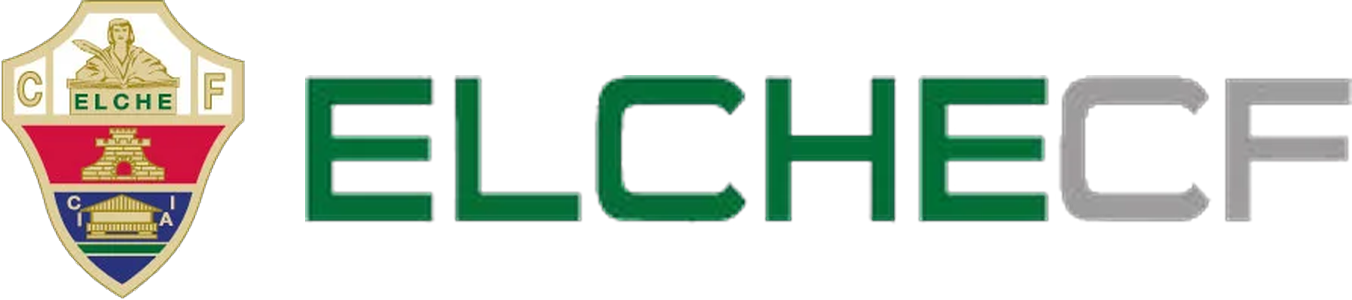
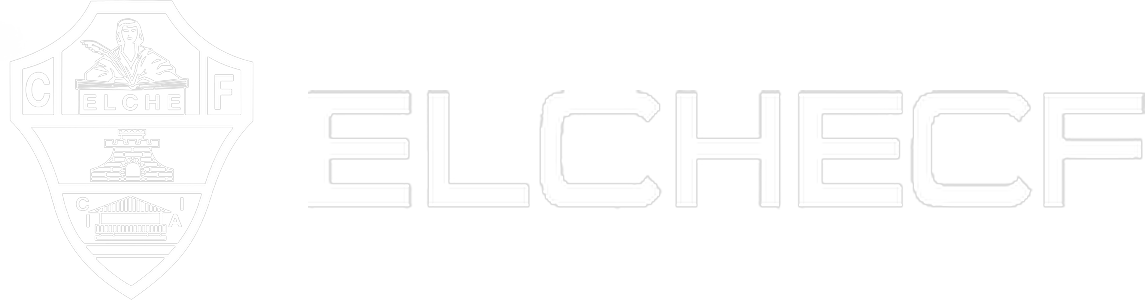
Escudo del Elche CF en línea con detalle y aviso de cookies rediseñado
- El escudo se toma del dibujo lineal en blanco que subió el doctor
  (fondo eliminado por luminancia) y se compone junto a las letras
  ELCHECF, algo más pequeñas, a 36 px de alto en la franja del hero.
- Aviso de cookies como tarjeta compacta con título, texto en registro
  formal en los doce idiomas, enlace a la política y dos botones;
  abajo a la izquierda en escritorio y sobre la barra de acciones en
  móvil.
- Versión de recursos estáticos a v22.

Claude-Session: https://claude.ai/code/session_011Mssy1zjTbsraUThFkKhN3

Changed region(s): [[0.214, 0.24, 1.0, 0.75], [0.0, 0.0, 0.1834, 0.99]]

diff --git a/assets/site.js b/assets/site.js
@@ -58,18 +58,18 @@ document.addEventListener("DOMContentLoaded", function () {
 
   // Aviso de cookies: gobierna la etiqueta de Google Ads (modo de consentimiento) y los mapas de Google.
   var CB = {
-    es: ["Usamos cookies solo para medir si nuestros anuncios de Google traen pacientes y para mostrar los mapas de Google. Sin tu permiso no se instala ninguna cookie.", "Más información", "Aceptar", "Rechazar"],
-    en: ["We use cookies only to measure whether our Google ads bring patients and to show Google maps. Without your permission no cookie is set.", "More information", "Accept", "Reject"],
-    de: ["Wir verwenden Cookies nur, um zu messen, ob unsere Google-Anzeigen Patienten bringen, und um Google-Karten anzuzeigen. Ohne Ihre Zustimmung wird kein Cookie gesetzt.", "Mehr erfahren", "Akzeptieren", "Ablehnen"],
-    fr: ["Nous utilisons des cookies uniquement pour mesurer si nos annonces Google nous amènent des patients et pour afficher les cartes Google. Sans votre accord, aucun cookie n'est déposé.", "En savoir plus", "Accepter", "Refuser"],
-    nl: ["We gebruiken cookies alleen om te meten of onze Google-advertenties patiënten opleveren en om Google-kaarten te tonen. Zonder uw toestemming wordt geen cookie geplaatst.", "Meer informatie", "Accepteren", "Weigeren"],
-    no: ["Vi bruker informasjonskapsler bare for å måle om Google-annonsene våre gir pasienter og for å vise Google-kart. Uten ditt samtykke settes ingen informasjonskapsler.", "Mer informasjon", "Godta", "Avslå"],
-    sv: ["Vi använder cookies enbart för att mäta om våra Google-annonser ger patienter och för att visa Google-kartor. Utan ditt samtycke sätts inga cookies.", "Mer information", "Acceptera", "Avböj"],
-    pl: ["Używamy plików cookie wyłącznie po to, aby mierzyć, czy nasze reklamy Google przynoszą pacjentów, oraz aby wyświetlać mapy Google. Bez Twojej zgody żaden plik cookie nie zostanie zapisany.", "Więcej informacji", "Akceptuję", "Odrzucam"],
-    ro: ["Folosim cookie-uri doar pentru a măsura dacă anunțurile noastre Google aduc pacienți și pentru a afișa hărțile Google. Fără acordul dumneavoastră nu se instalează niciun cookie.", "Mai multe informații", "Accept", "Refuz"],
-    bg: ["Използваме бисквитки само за да измерим дали рекламите ни в Google водят пациенти и за да покажем картите на Google. Без вашето съгласие не се инсталира никаква бисквитка.", "Повече информация", "Приемам", "Отказвам"],
-    ru: ["Мы используем cookie только для того, чтобы понять, приводит ли наша реклама в Google пациентов, и чтобы показывать карты Google. Без вашего согласия cookie не устанавливаются.", "Подробнее", "Принять", "Отклонить"],
-    uk: ["Ми використовуємо cookie лише для того, щоб зрозуміти, чи приводить наша реклама в Google пацієнтів, і щоб показувати карти Google. Без вашої згоди cookie не встановлюються.", "Докладніше", "Прийняти", "Відхилити"]
+    es: ["Utilizamos cookies únicamente para medir los resultados de nuestros anuncios de Google y para mostrar los mapas de las sedes. No se instala ninguna cookie sin tu consentimiento.", "Política de cookies", "Aceptar", "Rechazar", "Cookies"],
+    en: ["We use cookies only to measure the results of our Google ads and to display the location maps. No cookie is set without your consent.", "Cookie policy", "Accept", "Reject", "Cookies"],
+    de: ["Wir verwenden Cookies ausschließlich, um die Ergebnisse unserer Google-Anzeigen zu messen und die Standortkarten anzuzeigen. Ohne Ihre Einwilligung wird kein Cookie gesetzt.", "Cookie-Richtlinie", "Akzeptieren", "Ablehnen", "Cookies"],
+    fr: ["Nous utilisons des cookies uniquement pour mesurer les résultats de nos annonces Google et afficher les cartes de nos centres. Aucun cookie n'est déposé sans votre consentement.", "Politique de cookies", "Accepter", "Refuser", "Cookies"],
+    nl: ["We gebruiken cookies uitsluitend om de resultaten van onze Google-advertenties te meten en de locatiekaarten te tonen. Zonder uw toestemming wordt geen cookie geplaatst.", "Cookiebeleid", "Accepteren", "Weigeren", "Cookies"],
+    no: ["Vi bruker informasjonskapsler kun for å måle resultatene av Google-annonsene våre og for å vise kart over klinikkene. Ingen informasjonskapsler settes uten ditt samtykke.", "Retningslinjer for informasjonskapsler", "Godta", "Avslå", "Informasjonskapsler"],
+    sv: ["Vi använder cookies enbart för att mäta resultatet av våra Google-annonser och för att visa kartor över mottagningarna. Inga cookies sätts utan ditt samtycke.", "Cookiepolicy", "Acceptera", "Avböj", "Cookies"],
+    pl: ["Używamy plików cookie wyłącznie do mierzenia wyników naszych reklam Google oraz do wyświetlania map placówek. Bez Twojej zgody nie jest zapisywany żaden plik cookie.", "Polityka cookies", "Akceptuję", "Odrzucam", "Pliki cookie"],
+    ro: ["Folosim cookie-uri exclusiv pentru a măsura rezultatele anunțurilor noastre Google și pentru a afișa hărțile centrelor. Niciun cookie nu se instalează fără consimțământul dumneavoastră.", "Politica de cookie-uri", "Accept", "Refuz", "Cookie-uri"],
+    bg: ["Използваме бисквитки единствено за да измерваме резултатите от рекламите ни в Google и за да показваме картите на клиниките. Без вашето съгласие не се инсталира никаква бисквитка.", "Политика за бисквитките", "Приемам", "Отказвам", "Бисквитки"],
+    ru: ["Мы используем cookie исключительно для оценки результатов нашей рекламы в Google и для показа карт клиник. Без вашего согласия cookie не устанавливаются.", "Политика cookie", "Принять", "Отклонить", "Файлы cookie"],
+    uk: ["Ми використовуємо cookie виключно для оцінки результатів нашої реклами в Google і для показу карт клінік. Без вашої згоди cookie не встановлюються.", "Політика cookie", "Прийняти", "Відхилити", "Файли cookie"]
   };
   function consentStored() {
     try {
@@ -92,7 +92,7 @@ document.addEventListener("DOMContentLoaded", function () {
     bar.className = "cookie-bar";
     bar.setAttribute("role", "dialog");
     bar.setAttribute("aria-label", "Cookies");
-    bar.innerHTML = '<p>' + t[0] + ' <a href="/privacidad/#cookies">' + t[1] + '</a></p>' +
+    bar.innerHTML = '<p class="cb-title">' + t[4] + '</p><p>' + t[0] + ' <a href="/privacidad/#cookies">' + t[1] + '</a></p>' +
       '<div class="cb-actions"><button type="button" class="cb-reject">' + t[3] + '</button><button type="button" class="cb-accept">' + t[2] + '</button></div>';
     bar.querySelector(".cb-accept").addEventListener("click", function () { saveConsent("granted"); bar.remove(); });
     bar.querySelector(".cb-reject").addEventListener("click", function () { saveConsent("denied"); bar.remove(); });

diff --git a/assets/styles.css b/assets/styles.css
@@ -543,7 +543,7 @@ table.compare { border-collapse: collapse; width: 100%; font-size: 14px; min-wid
 .hero-photo .cred-row .plogo img { filter: brightness(0) invert(1); width: auto; }
 .hero-photo .cred-row .plogo .l-salar { height: 32px; }
 .hero-photo .cred-row .plogo .l-trauma { height: 22px; }
-.hero-photo .cred-row .plogo .l-elche { height: 32px; }
+.hero-photo .cred-row .plogo .l-elche { height: 36px; }
 .hero-photo .cred-row .cred-text { font-size: 12.5px; letter-spacing: 0.04em; color: #A9C0C9; }
 .hero-cards .duo { margin-top: -92px; position: relative; z-index: 2; }
 @media (max-width: 820px) {
@@ -621,16 +621,18 @@ table.compare { border-collapse: collapse; width: 100%; font-size: 14px; min-wid
 .sede-band .map .map-load:hover { background: rgba(255, 255, 255, 0.13); border-color: rgba(255, 255, 255, 0.55); color: #fff; }
 
 /* ---------- Aviso de cookies (solo para la etiqueta de Google Ads) ---------- */
-.cookie-bar { position: fixed; left: 16px; right: 16px; bottom: 18px; z-index: 60; margin: 0 auto; max-width: 720px; background: #fff; color: var(--ink); border: 1px solid var(--line); border-radius: 16px; box-shadow: 0 14px 40px rgba(43, 72, 81, 0.18); padding: 16px 18px; display: flex; flex-wrap: wrap; align-items: center; gap: 12px 18px; font-size: 13.5px; line-height: 1.5; }
-.cookie-bar p { margin: 0; flex: 1 1 320px; }
-.cookie-bar p a { color: var(--teal); }
-.cookie-bar .cb-actions { display: flex; gap: 8px; flex: 0 0 auto; }
-.cookie-bar button { font: inherit; font-weight: 700; font-size: 13.5px; border-radius: 999px; padding: 10px 18px; cursor: pointer; min-width: 112px; }
+.cookie-bar { position: fixed; left: 18px; bottom: 18px; z-index: 60; width: min(400px, calc(100% - 36px)); background: #fff; color: var(--ink); border: 1px solid var(--line); border-top: 4px solid var(--teal); border-radius: 14px; box-shadow: 0 16px 44px rgba(43, 72, 81, 0.2); padding: 18px 20px 16px; font-size: 13.5px; line-height: 1.55; }
+.cookie-bar .cb-title { margin: 0 0 6px; font-size: 15px; font-weight: 800; color: var(--head); }
+.cookie-bar p { margin: 0; color: var(--muted); }
+.cookie-bar p a { color: var(--teal); font-weight: 700; }
+.cookie-bar .cb-actions { display: flex; gap: 10px; margin-top: 14px; }
+.cookie-bar button { flex: 1; font: inherit; font-weight: 700; font-size: 13.5px; border-radius: 10px; padding: 11px 14px; cursor: pointer; }
 .cookie-bar .cb-accept { background: var(--btn); color: #fff; border: 1.5px solid var(--btn); }
+.cookie-bar .cb-accept:hover { background: var(--head); border-color: var(--head); }
 .cookie-bar .cb-reject { background: #fff; color: var(--head); border: 1.5px solid var(--line); }
 .cookie-bar .cb-reject:hover { border-color: var(--sky); }
 .cookie-bar button:focus-visible { outline: 2px solid var(--teal); outline-offset: 2px; }
-@media (max-width: 880px) { .cookie-bar { bottom: 82px; left: 10px; right: 10px; padding: 14px 16px; } .cookie-bar .cb-actions { width: 100%; } .cookie-bar button { flex: 1; } }
+@media (max-width: 880px) { .cookie-bar { left: 10px; right: 10px; width: auto; bottom: 82px; padding: 16px 16px 14px; } }
 .site-footer .cookie-settings { text-decoration: underline; }
 
 /* ---------- Páginas de ciudad: mapa en artículo y enlaces en las sedes ---------- */

diff --git a/contacto/index.html b/contacto/index.html
@@ -15,7 +15,7 @@
 <link rel="preconnect" href="https://fonts.googleapis.com">
 <link rel="preconnect" href="https://fonts.gstatic.com" crossorigin>
 <link rel="stylesheet" href="https://fonts.googleapis.com/css2?family=Lato:wght@400;700;800&display=swap">
-<link rel="stylesheet" href="/assets/styles.css?v=21">
+<link rel="stylesheet" href="/assets/styles.css?v=22">
 <script>window.dataLayer=window.dataLayer||[];function gtag(){dataLayer.push(arguments);}gtag('consent','default',{'ad_storage':'denied','ad_user_data':'denied','ad_personalization':'denied','analytics_storage':'denied'});gtag('set','ads_data_redaction',true);(function(){try{var c=JSON.parse(localStorage.getItem('jg-consent')||'null');if(c&&c.v==='granted'&&Date.now()-c.t<31536000000){gtag('consent','update',{'ad_storage':'granted','ad_user_data':'granted','ad_personalization':'granted'});}}catch(e){}})();</script>
 <script async src="https://www.googletagmanager.com/gtag/js?id=AW-18436478485"></script>
 <script>gtag('js',new Date());gtag('config','AW-18436478485');</script>
@@ -163,6 +163,6 @@
   <a class="book" href="https://www.doctoralia.es/joel-gambin-botella/traumatologo-especialista-en-medicina-del-deporte/torrevieja" rel="noopener" target="_blank">Cita</a>
 </div>
 
-<script src="/assets/site.js?v=21"></script>
+<script src="/assets/site.js?v=22"></script>
 </body>
 </html>

diff --git a/en/about/index.html b/en/about/index.html
@@ -15,7 +15,7 @@
 <link rel="preconnect" href="https://fonts.googleapis.com">
 <link rel="preconnect" href="https://fonts.gstatic.com" crossorigin>
 <link rel="stylesheet" href="https://fonts.googleapis.com/css2?family=Lato:wght@400;700;800&display=swap">
-<link rel="stylesheet" href="/assets/styles.css?v=21">
+<link rel="stylesheet" href="/assets/styles.css?v=22">
 <script>window.dataLayer=window.dataLayer||[];function gtag(){dataLayer.push(arguments);}gtag('consent','default',{'ad_storage':'denied','ad_user_data':'denied','ad_personalization':'denied','analytics_storage':'denied'});gtag('set','ads_data_redaction',true);(function(){try{var c=JSON.parse(localStorage.getItem('jg-consent')||'null');if(c&&c.v==='granted'&&Date.now()-c.t<31536000000){gtag('consent','update',{'ad_storage':'granted','ad_user_data':'granted','ad_personalization':'granted'});}}catch(e){}})();</script>
 <script async src="https://www.googletagmanager.com/gtag/js?id=AW-18436478485"></script>
 <script>gtag('js',new Date());gtag('config','AW-18436478485');</script>
@@ -177,6 +177,6 @@
   <a class="book" href="https://www.doctoralia.es/joel-gambin-botella/traumatologo-especialista-en-medicina-del-deporte/torrevieja" rel="noopener" target="_blank">Book</a>
 </div>
 
-<script src="/assets/site.js?v=21"></script>
+<script src="/assets/site.js?v=22"></script>
 </body>
 </html>

diff --git a/en/contact/index.html b/en/contact/index.html
@@ -15,7 +15,7 @@
 <link rel="preconnect" href="https://fonts.googleapis.com">
 <link rel="preconnect" href="https://fonts.gstatic.com" crossorigin>
 <link rel="stylesheet" href="https://fonts.googleapis.com/css2?family=Lato:wght@400;700;800&display=swap">
-<link rel="stylesheet" href="/assets/styles.css?v=21">
+<link rel="stylesheet" href="/assets/styles.css?v=22">
 <script>window.dataLayer=window.dataLayer||[];function gtag(){dataLayer.push(arguments);}gtag('consent','default',{'ad_storage':'denied','ad_user_data':'denied','ad_personalization':'denied','analytics_storage':'denied'});gtag('set','ads_data_redaction',true);(function(){try{var c=JSON.parse(localStorage.getItem('jg-consent')||'null');if(c&&c.v==='granted'&&Date.now()-c.t<31536000000){gtag('consent','update',{'ad_storage':'granted','ad_user_data':'granted','ad_personalization':'granted'});}}catch(e){}})();</script>
 <script async src="https://www.googletagmanager.com/gtag/js?id=AW-18436478485"></script>
 <script>gtag('js',new Date());gtag('config','AW-18436478485');</script>
@@ -163,6 +163,6 @@
   <a class="book" href="https://www.doctoralia.es/joel-gambin-botella/traumatologo-especialista-en-medicina-del-deporte/torrevieja" rel="noopener" target="_blank">Book</a>
 </div>
 
-<script src="/assets/site.js?v=21"></script>
+<script src="/assets/site.js?v=22"></script>
 </body>
 </html>

diff --git a/en/orthopaedic-surgeon-alicante/index.html b/en/orthopaedic-surgeon-alicante/index.html
@@ -22,7 +22,7 @@
 <link rel="preconnect" href="https://fonts.googleapis.com">
 <link rel="preconnect" href="https://fonts.gstatic.com" crossorigin>
 <link rel="stylesheet" href="https://fonts.googleapis.com/css2?family=Lato:wght@400;700;800&display=swap">
-<link rel="stylesheet" href="/assets/styles.css?v=21">
+<link rel="stylesheet" href="/assets/styles.css?v=22">
 <script>window.dataLayer=window.dataLayer||[];function gtag(){dataLayer.push(arguments);}gtag('consent','default',{'ad_storage':'denied','ad_user_data':'denied','ad_personalization':'denied','analytics_storage':'denied'});gtag('set','ads_data_redaction',true);(function(){try{var c=JSON.parse(localStorage.getItem('jg-consent')||'null');if(c&&c.v==='granted'&&Date.now()-c.t<31536000000){gtag('consent','update',{'ad_storage':'granted','ad_user_data':'granted','ad_personalization':'granted'});}}catch(e){}})();</script>
 <script async src="https://www.googletagmanager.com/gtag/js?id=AW-18436478485"></script>
 <script>gtag('js',new Date());gtag('config','AW-18436478485');</script>
@@ -314,6 +314,6 @@
   <a class="book" href="https://www.doctoralia.es/joel-gambin-botella/traumatologo-especialista-en-medicina-del-deporte/torrevieja" rel="noopener" target="_blank">Book</a>
 </div>
 
-<script src="/assets/site.js?v=21"></script>
+<script src="/assets/site.js?v=22"></script>
 </body>
 </html>

diff --git a/en/orthopaedic-surgeon-elche/index.html b/en/orthopaedic-surgeon-elche/index.html
@@ -22,7 +22,7 @@
 <link rel="preconnect" href="https://fonts.googleapis.com">
 <link rel="preconnect" href="https://fonts.gstatic.com" crossorigin>
 <link rel="stylesheet" href="https://fonts.googleapis.com/css2?family=Lato:wght@400;700;800&display=swap">
-<link rel="stylesheet" href="/assets/styles.css?v=21">
+<link rel="stylesheet" href="/assets/styles.css?v=22">
 <script>window.dataLayer=window.dataLayer||[];function gtag(){dataLayer.push(arguments);}gtag('consent','default',{'ad_storage':'denied','ad_user_data':'denied','ad_personalization':'denied','analytics_storage':'denied'});gtag('set','ads_data_redaction',true);(function(){try{var c=JSON.parse(localStorage.getItem('jg-consent')||'null');if(c&&c.v==='granted'&&Date.now()-c.t<31536000000){gtag('consent','update',{'ad_storage':'granted','ad_user_data':'granted','ad_personalization':'granted'});}}catch(e){}})();</script>
 <script async src="https://www.googletagmanager.com/gtag/js?id=AW-18436478485"></script>
 <script>gtag('js',new Date());gtag('config','AW-18436478485');</script>
@@ -314,6 +314,6 @@
   <a class="book" href="https://www.doctoralia.es/joel-gambin-botella/traumatologo-especialista-en-medicina-del-deporte/torrevieja" rel="noopener" target="_blank">Book</a>
 </div>
 
-<script src="/assets/site.js?v=21"></script>
+<script src="/assets/site.js?v=22"></script>
 </body>
 </html>

diff --git a/en/orthopaedic-surgeon-torrevieja/index.html b/en/orthopaedic-surgeon-torrevieja/index.html
@@ -22,7 +22,7 @@
 <link rel="preconnect" href="https://fonts.googleapis.com">
 <link rel="preconnect" href="https://fonts.gstatic.com" crossorigin>
 <link rel="stylesheet" href="https://fonts.googleapis.com/css2?family=Lato:wght@400;700;800&display=swap">
-<link rel="stylesheet" href="/assets/styles.css?v=21">
+<link rel="stylesheet" href="/assets/styles.css?v=22">
 <script>window.dataLayer=window.dataLayer||[];function gtag(){dataLayer.push(arguments);}gtag('consent','default',{'ad_storage':'denied','ad_user_data':'denied','ad_personalization':'denied','analytics_storage':'denied'});gtag('set','ads_data_redaction',true);(function(){try{var c=JSON.parse(localStorage.getItem('jg-consent')||'null');if(c&&c.v==='granted'&&Date.now()-c.t<31536000000){gtag('consent','update',{'ad_storage':'granted','ad_user_data':'granted','ad_personalization':'granted'});}}catch(e){}})();</script>
 <script async src="https://www.googletagmanager.com/gtag/js?id=AW-18436478485"></script>
 <script>gtag('js',new Date());gtag('config','AW-18436478485');</script>
@@ -314,6 +314,6 @@
   <a class="book" href="https://www.doctoralia.es/joel-gambin-botella/traumatologo-especialista-en-medicina-del-deporte/torrevieja" rel="noopener" target="_blank">Book</a>
 </div>
 
-<script src="/assets/site.js?v=21"></script>
+<script src="/assets/site.js?v=22"></script>
 </body>
 </html>

diff --git a/sobre-mi/index.html b/sobre-mi/index.html
@@ -15,7 +15,7 @@
 <link rel="preconnect" href="https://fonts.googleapis.com">
 <link rel="preconnect" href="https://fonts.gstatic.com" crossorigin>
 <link rel="stylesheet" href="https://fonts.googleapis.com/css2?family=Lato:wght@400;700;800&display=swap">
-<link rel="stylesheet" href="/assets/styles.css?v=21">
+<link rel="stylesheet" href="/assets/styles.css?v=22">
 <script>window.dataLayer=window.dataLayer||[];function gtag(){dataLayer.push(arguments);}gtag('consent','default',{'ad_storage':'denied','ad_user_data':'denied','ad_personalization':'denied','analytics_storage':'denied'});gtag('set','ads_data_redaction',true);(function(){try{var c=JSON.parse(localStorage.getItem('jg-consent')||'null');if(c&&c.v==='granted'&&Date.now()-c.t<31536000000){gtag('consent','update',{'ad_storage':'granted','ad_user_data':'granted','ad_personalization':'granted'});}}catch(e){}})();</script>
 <script async src="https://www.googletagmanager.com/gtag/js?id=AW-18436478485"></script>
 <script>gtag('js',new Date());gtag('config','AW-18436478485');</script>
@@ -177,6 +177,6 @@
   <a class="book" href="https://www.doctoralia.es/joel-gambin-botella/traumatologo-especialista-en-medicina-del-deporte/torrevieja" rel="noopener" target="_blank">Cita</a>
 </div>
 
-<script src="/assets/site.js?v=21"></script>
+<script src="/assets/site.js?v=22"></script>
 </body>
 </html>

diff --git a/traumatologo-alicante/index.html b/traumatologo-alicante/index.html
@@ -22,7 +22,7 @@
 <link rel="preconnect" href="https://fonts.googleapis.com">
 <link rel="preconnect" href="https://fonts.gstatic.com" crossorigin>
 <link rel="stylesheet" href="https://fonts.googleapis.com/css2?family=Lato:wght@400;700;800&display=swap">
-<link rel="stylesheet" href="/assets/styles.css?v=21">
+<link rel="stylesheet" href="/assets/styles.css?v=22">
 <script>window.dataLayer=window.dataLayer||[];function gtag(){dataLayer.push(arguments);}gtag('consent','default',{'ad_storage':'denied','ad_user_data':'denied','ad_personalization':'denied','analytics_storage':'denied'});gtag('set','ads_data_redaction',true);(function(){try{var c=JSON.parse(localStorage.getItem('jg-consent')||'null');if(c&&c.v==='granted'&&Date.now()-c.t<31536000000){gtag('consent','update',{'ad_storage':'granted','ad_user_data':'granted','ad_personalization':'granted'});}}catch(e){}})();</script>
 <script async src="https://www.googletagmanager.com/gtag/js?id=AW-18436478485"></script>
 <script>gtag('js',new Date());gtag('config','AW-18436478485');</script>
@@ -314,6 +314,6 @@
   <a class="book" href="https://www.doctoralia.es/joel-gambin-botella/traumatologo-especialista-en-medicina-del-deporte/torrevieja" rel="noopener" target="_blank">Cita</a>
 </div>
 
-<script src="/assets/site.js?v=21"></script>
+<script src="/assets/site.js?v=22"></script>
 </body>
 </html>

diff --git a/traumatologo-elche/index.html b/traumatologo-elche/index.html
@@ -22,7 +22,7 @@
 <link rel="preconnect" href="https://fonts.googleapis.com">
 <link rel="preconnect" href="https://fonts.gstatic.com" crossorigin>
 <link rel="stylesheet" href="https://fonts.googleapis.com/css2?family=Lato:wght@400;700;800&display=swap">
-<link rel="stylesheet" href="/assets/styles.css?v=21">
+<link rel="stylesheet" href="/assets/styles.css?v=22">
 <script>window.dataLayer=window.dataLayer||[];function gtag(){dataLayer.push(arguments);}gtag('consent','default',{'ad_storage':'denied','ad_user_data':'denied','ad_personalization':'denied','analytics_storage':'denied'});gtag('set','ads_data_redaction',true);(function(){try{var c=JSON.parse(localStorage.getItem('jg-consent')||'null');if(c&&c.v==='granted'&&Date.now()-c.t<31536000000){gtag('consent','update',{'ad_storage':'granted','ad_user_data':'granted','ad_personalization':'granted'});}}catch(e){}})();</script>
 <script async src="https://www.googletagmanager.com/gtag/js?id=AW-18436478485"></script>
 <script>gtag('js',new Date());gtag('config','AW-18436478485');</script>
@@ -314,6 +314,6 @@
   <a class="book" href="https://www.doctoralia.es/joel-gambin-botella/traumatologo-especialista-en-medicina-del-deporte/torrevieja" rel="noopener" target="_blank">Cita</a>
 </div>
 
-<script src="/assets/site.js?v=21"></script>
+<script src="/assets/site.js?v=22"></script>
 </body>
 </html>

diff --git a/traumatologo-torrevieja/index.html b/traumatologo-torrevieja/index.html
@@ -22,7 +22,7 @@
 <link rel="preconnect" href="https://fonts.googleapis.com">
 <link rel="preconnect" href="https://fonts.gstatic.com" crossorigin>
 <link rel="stylesheet" href="https://fonts.googleapis.com/css2?family=Lato:wght@400;700;800&display=swap">
-<link rel="stylesheet" href="/assets/styles.css?v=21">
+<link rel="stylesheet" href="/assets/styles.css?v=22">
 <script>window.dataLayer=window.dataLayer||[];function gtag(){dataLayer.push(arguments);}gtag('consent','default',{'ad_storage':'denied','ad_user_data':'denied','ad_personalization':'denied','analytics_storage':'denied'});gtag('set','ads_data_redaction',true);(function(){try{var c=JSON.parse(localStorage.getItem('jg-consent')||'null');if(c&&c.v==='granted'&&Date.now()-c.t<31536000000){gtag('consent','update',{'ad_storage':'granted','ad_user_data':'granted','ad_personalization':'granted'});}}catch(e){}})();</script>
 <script async src="https://www.googletagmanager.com/gtag/js?id=AW-18436478485"></script>
 <script>gtag('js',new Date());gtag('config','AW-18436478485');</script>
@@ -314,6 +314,6 @@
   <a class="book" href="https://www.doctoralia.es/joel-gambin-botella/traumatologo-especialista-en-medicina-del-deporte/torrevieja" rel="noopener" target="_blank">Cita</a>
 </div>
 
-<script src="/assets/site.js?v=21"></script>
+<script src="/assets/site.js?v=22"></script>
 </body>
 </html>
